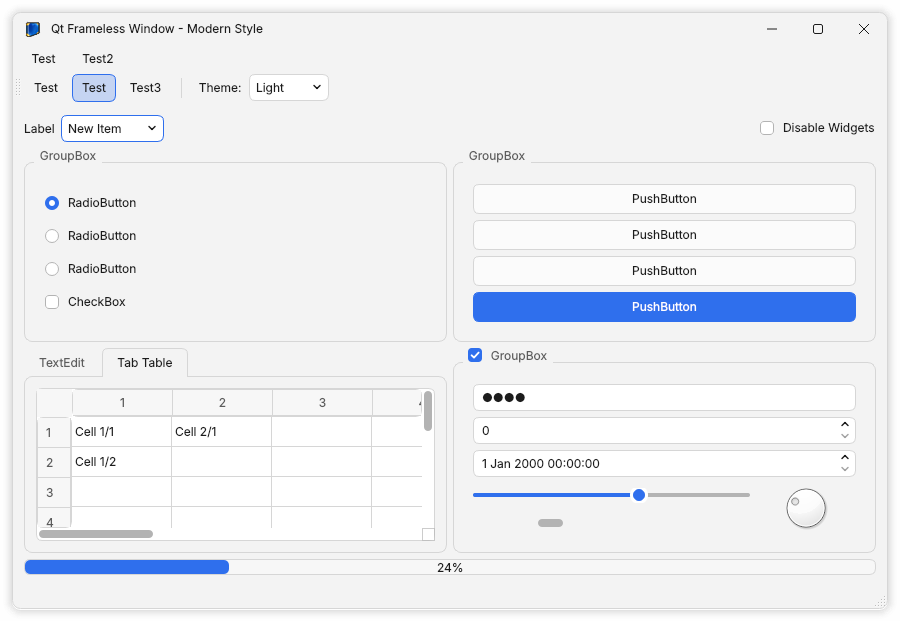
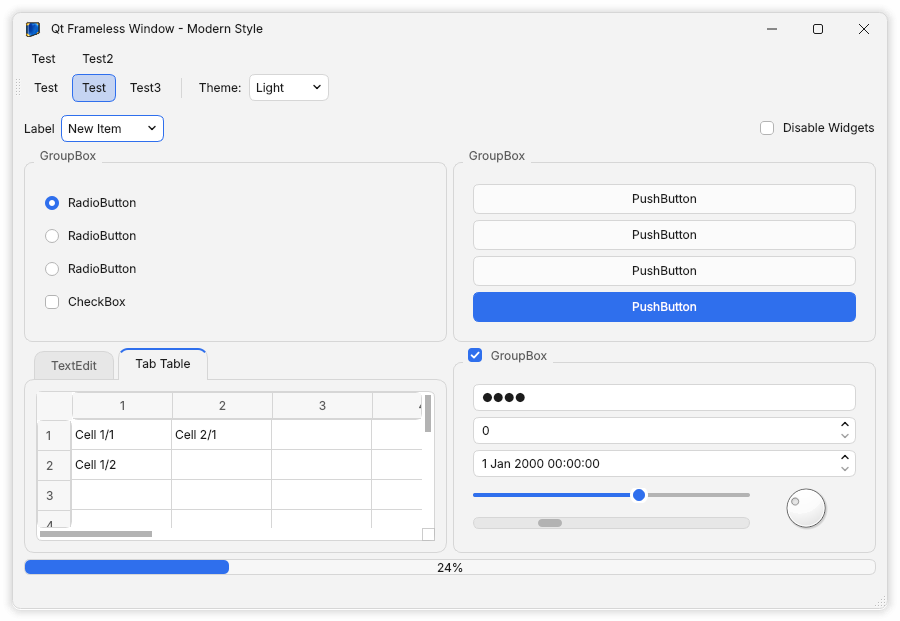
ModernStyle: clearer, rounder tabs; visible track for stand-alone scroll bars
- Unselected tabs get their own fill and border (new @tab / @tabHover
  colours), a 4 px gap between them and 10 px rounded tops; the selected
  tab is raised, joined to the pane and marked with an accent line on top;
  the tab row starts after the pane's rounded corner; bottom tabs mirrored
- Scroll bars on their own show a rounded track; inside scroll areas
  (lists, tables, text) they stay track-less; the handle turns accent
  while dragged
- Screenshots updated

Claude-Session: https://claude.ai/code/session_01Kn14e4JxntSWfujh7GdBDb

Changed region(s): [[0.0311, 0.5507, 0.4978, 0.8261], [0.56, 0.8261, 0.8089, 0.8567]]

diff --git a/modernstyle/modernstyle.cpp b/modernstyle/modernstyle.cpp
@@ -37,6 +37,8 @@ QHash<QString, QColor> themeColors(bool dark, const QColor &accent)
         c["textDisabled"] = QColor("#6e6e6e");
         c["menu"] = QColor("#2c2c2c");
         c["tooltip"] = QColor("#2c2c2c");
+        c["tab"] = QColor("#2b2b2b");             // unselected tabs, scroll bar tracks
+        c["tabHover"] = QColor("#363636");
     } else {
         c["window"] = QColor("#f3f3f3");
         c["surface"] = QColor("#ffffff");
@@ -51,6 +53,8 @@ QHash<QString, QColor> themeColors(bool dark, const QColor &accent)
         c["textDisabled"] = QColor("#a3a3a3");
         c["menu"] = QColor("#ffffff");
         c["tooltip"] = QColor("#ffffff");
+        c["tab"] = QColor("#e7e7e7");
+        c["tabHover"] = QColor("#dedede");
     }
     // The accent, a little lighter on dark backgrounds so it stands out
     c["accent"] = dark ? accent.lighter(115) : accent;
